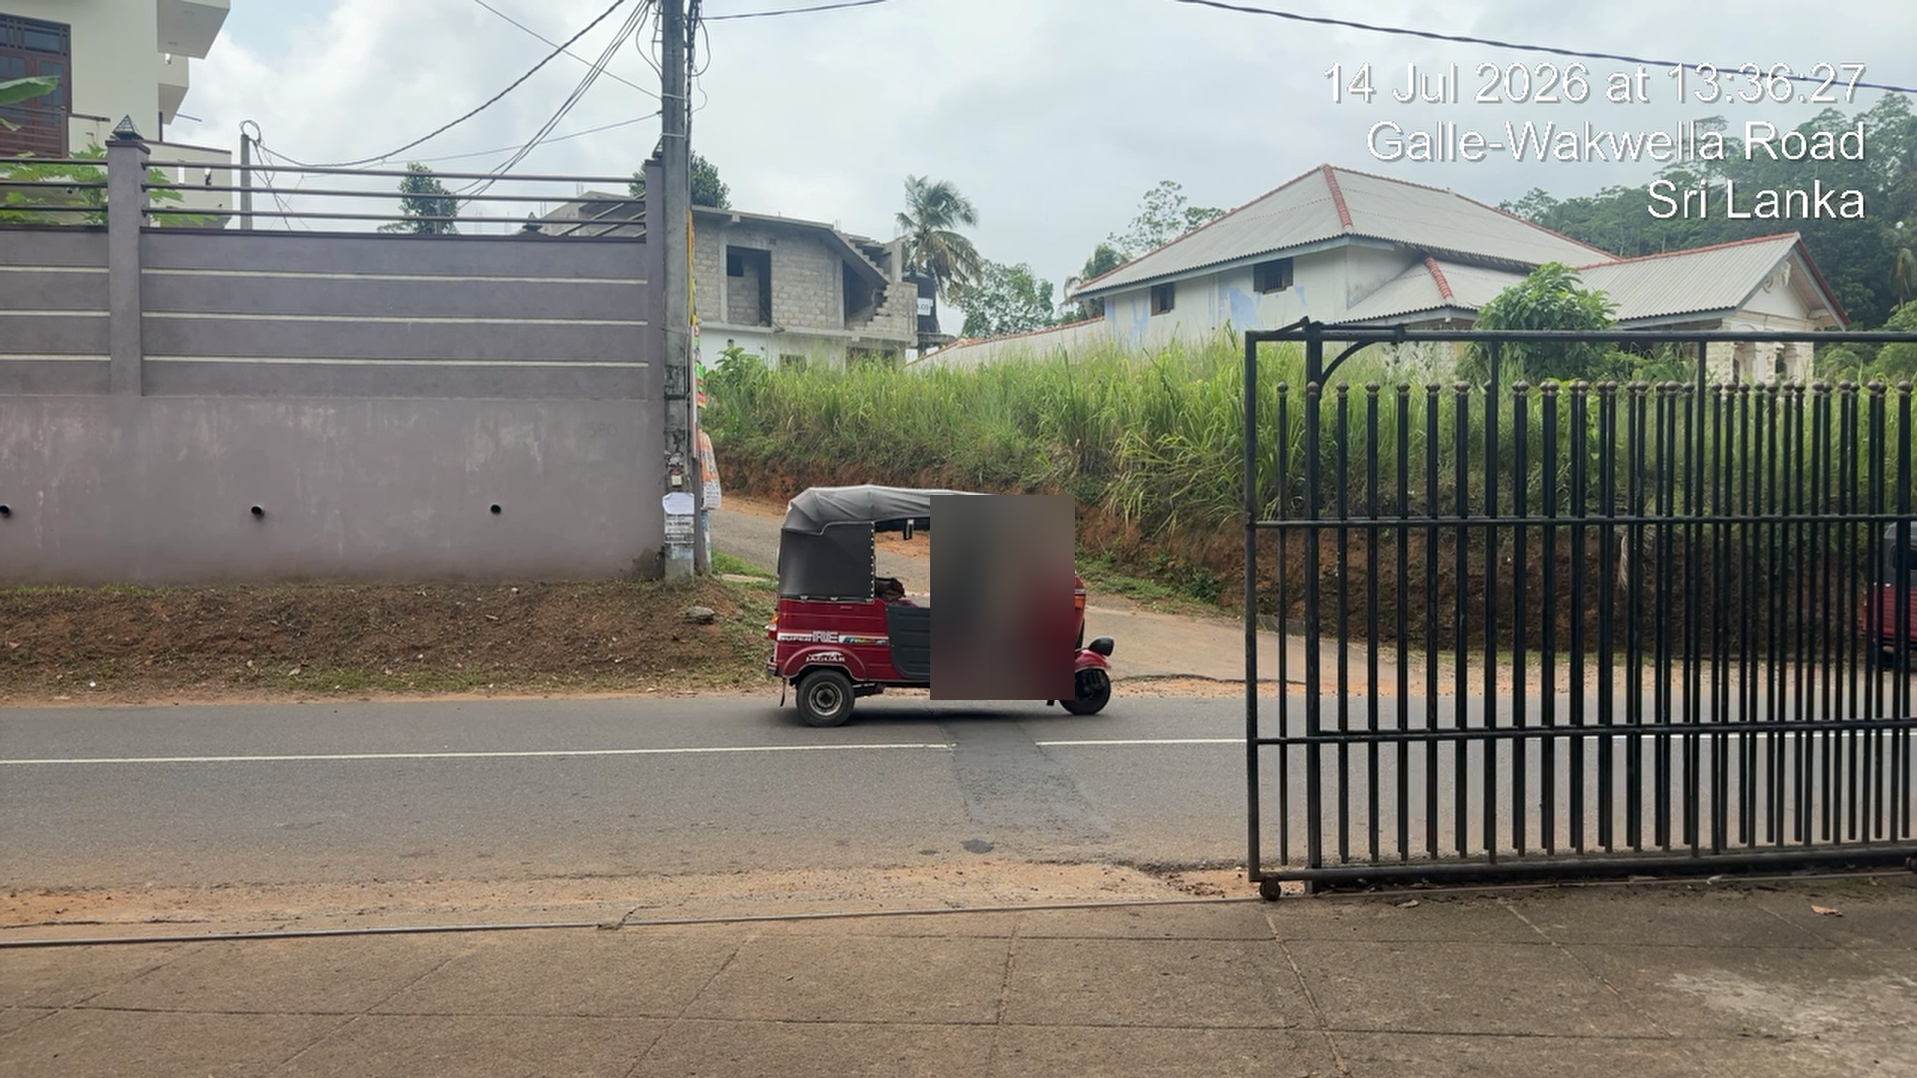
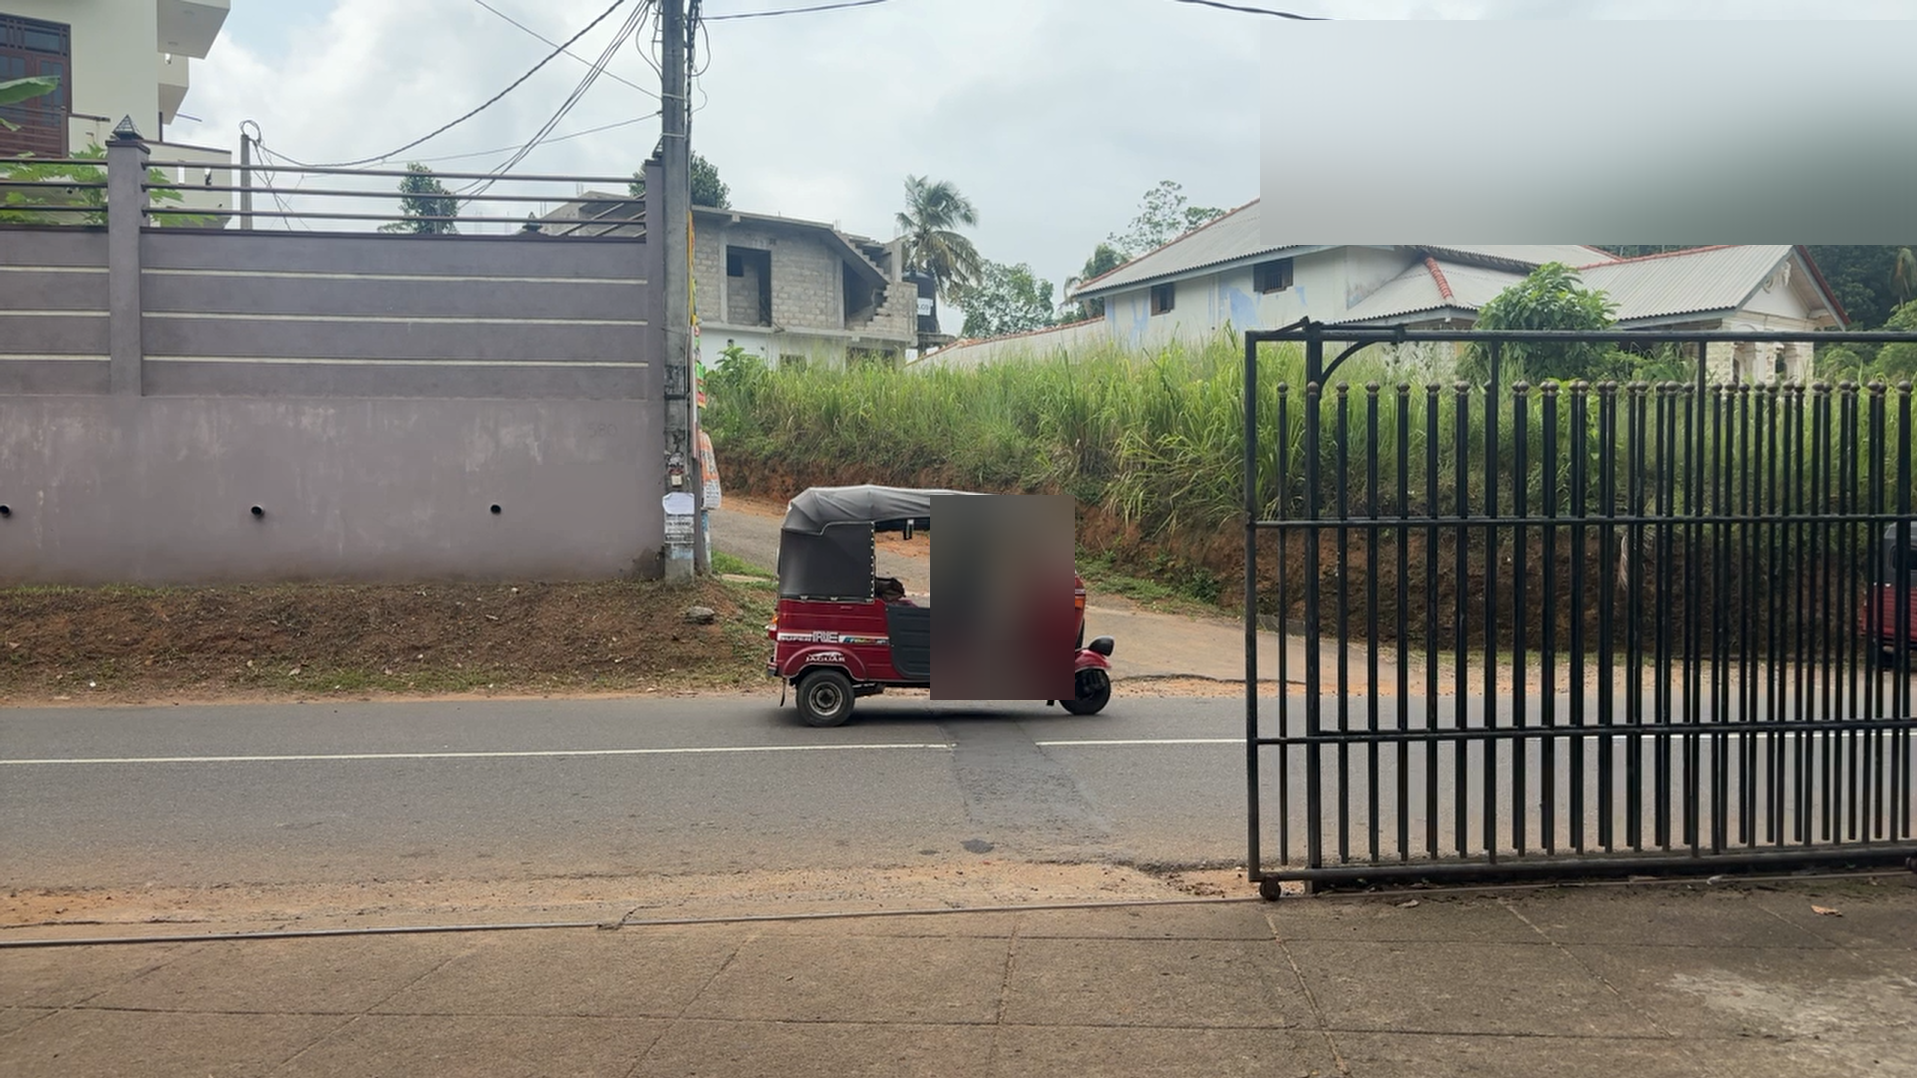
Second Figure 3 redaction pass; move discrepancy detail to docs
- tools/redact/blur_figure3_overlay.py: blurs the camera's burned-in
  date/time/road-name overlay and a house-number stencil on the boundary
  wall, in addition to the occupant blur already applied. The manuscript
  text already states the session date and road name, so the image no
  longer needs to repeat that detail in a persistent, geolocatable form.
- docs/MAIN_ROAD_DISCREPANCY_ANALYSIS.md: full per-discrepancy timing and
  five-minute-window clustering detail, moved out of the manuscript body
  per reviewer feedback that it read as a forensic audit rather than a
  method summary.
- docs/validation_multimodule_results.md: added the five-session time
  window table, likewise moved out of the manuscript's inline prose.

Changed region(s): [[0.6463, 0.0306, 1.0, 0.2449], [0.7079, 0.0, 0.7387, 0.0306]]

diff --git a/tools/redact/blur_figure3_overlay.py b/tools/redact/blur_figure3_overlay.py
@@ -1,0 +1,63 @@
+"""
+blur_figure3_overlay.py -- second redaction pass on the manuscript's Figure 3
+field-validation still (already occupant-blurred by blur_figure2.py).
+
+Reviewer/supervisor feedback: the frame has a burned-in camera overlay
+stamping the exact date, time, and full road name onto a photo that also
+shows a specific residential gate/wall, including a house-number stencil on
+the wall face. The manuscript's own prose already states the location (B130
+Galle-Wackwella Road) and date (14 July 2026) in Method validation, so the
+overlay text adds no information the reader doesn't already have from the
+text -- it only adds a persistent, googlable image tying an exact timestamp
+to an identifiable residential frontage. Both regions are blurred here as
+unnecessary location-sensitive detail.
+
+No unredacted source frame is retained (per the manuscript's own stated
+raw-footage deletion policy), so this operates on the already
+occupant-redacted image and blurs two additional regions:
+  1. the top-right date/time/location overlay text
+  2. the house-number stencil visible on the boundary wall
+
+Usage:
+    python blur_figure3_overlay.py <input_image> <output_image>
+"""
+
+import sys
+import cv2
+
+
+def main():
+    if len(sys.argv) != 3:
+        print("Usage: python blur_figure3_overlay.py <input_image> <output_image>")
+        sys.exit(1)
+
+    src_path, dst_path = sys.argv[1], sys.argv[2]
+    img = cv2.imread(src_path)
+    if img is None:
+        print(f"ERROR: could not read {src_path}")
+        sys.exit(1)
+
+    h, w = img.shape[:2]
+    print(f"Source image: {w}x{h}")
+
+    # Camera-burned date/time/road-name overlay, top-right corner.
+    overlay_box = (1260, 20, 1917, 245)
+    # House-number stencil on the boundary wall, left-center.
+    housenum_box = (535, 465, 635, 530)
+
+    for (x1, y1, x2, y2) in [overlay_box, housenum_box]:
+        x1, y1, x2, y2 = max(0, x1), max(0, y1), min(w, x2), min(h, y2)
+        if x2 <= x1 or y2 <= y1:
+            continue
+        region = img[y1:y2, x1:x2]
+        kx = max(41, (x2 - x1) // 2 * 2 + 1)
+        ky = max(41, (y2 - y1) // 2 * 2 + 1)
+        blurred = cv2.GaussianBlur(region, (kx, ky), 0)
+        img[y1:y2, x1:x2] = blurred
+
+    cv2.imwrite(dst_path, img, [cv2.IMWRITE_PNG_COMPRESSION, 3])
+    print(f"Wrote redacted image: {dst_path}")
+
+
+if __name__ == "__main__":
+    main()

diff --git a/docs/MAIN_ROAD_DISCREPANCY_ANALYSIS.md b/docs/MAIN_ROAD_DISCREPANCY_ANALYSIS.md
@@ -1,0 +1,70 @@
+# Main-Road Discrepancy Analysis
+
+This document gives the full per-discrepancy detail behind the manuscript's
+Method validation summary for the main-road session (14 July 2026), moved
+here to keep the manuscript body at a method-summary level of detail rather
+than a per-timestamp forensic audit.
+
+## Tolerance-sensitivity check
+
+Matching was performed at a two-second tolerance (Ground-truth extraction
+and matching, in the manuscript). Re-matching at other tolerances (1, 2, 3,
+5 seconds) to test sensitivity to that choice would require the full
+unmatched raw timestamp lists from both the application export and the
+video-derived record. These were not retained as a separate file for the
+main-road session, so they cannot be reconstructed from the published
+discrepancy list (Table 6) alone. This tolerance-sensitivity analysis is
+therefore not repeated; it is named as a limitation in the manuscript
+instead.
+
+## Are the three unmatched entries genuine false positives?
+
+What can be checked from Table 6 as published is the temporal gap between
+each unmatched entry and the nearest missed detection, to assess whether an
+unmatched entry could plausibly be the same physical vehicle as a nearby
+missed detection, simply mismatched at this tolerance.
+
+| Unmatched entry | Nearest missed detection | Gap | Same class? | Verdict |
+|---|---|---|---|---|
+| 13:54:19 | (nearest missed event) | 113s | -- | Too distant; genuine false positive |
+| 13:56:11 | (nearest missed event) | 225s | -- | Too distant; genuine false positive |
+| 13:49:57 | Truck missed at 13:50:06 | 9s | No (Bike vs. Truck) | Close in time, but different logged class argues against being the same vehicle |
+
+Two of the three are unambiguous genuine false positives. The third is close
+enough in time to warrant checking, but the class mismatch argues against
+it being the same vehicle even at a wider tolerance. The manuscript
+therefore does not smooth this into a uniform "all three are genuine false
+positives" claim, since the data does not uniformly support that for all
+three.
+
+## Are the ten discrepancies clustered in time?
+
+Binning all ten discrepancies (four missed, three misclassified, three
+unmatched) into consecutive five-minute windows across the 30-minute
+session:
+
+| Window | Discrepancies |
+|---|---|
+| 0--5 min | 1 |
+| 5--10 min | 0 |
+| 10--15 min | 2 |
+| 15--20 min | 3 |
+| 20--25 min | 4 |
+| 25--30 min | 0 |
+
+Every discrepancy falls between 13:36:20 and 13:56:11, and the per-bin
+count rises across the session instead of staying flat. This is not
+consistent with a prior characterization of this data as "isolated single
+events rather than in a cluster." It is closer to a mild concentration in
+the back half of the session, though ten events are too few to distinguish
+a genuine rising trend (for example, fatigue) from chance clustering with
+any confidence -- both readings remain plausible, and this data does not
+adjudicate between them.
+
+## Misclassification pattern
+
+All three misclassifications involved a smaller, less visually distinct
+class confused with a similarly sized but different one, consistent with
+the literature's general finding that classification error is driven
+primarily by difficulty recognizing a vehicle's length or form, not by
+missing it altogether [6].

diff --git a/docs/validation_multimodule_results.md b/docs/validation_multimodule_results.md
@@ -14,6 +14,18 @@ This extends the manuscript's existing single-module validation (Main Road, 231 
 
 All confidence intervals are Wilson 95%.
 
+### Session time windows
+
+| Module | Date | Time window |
+|---|---|---|
+| t-junction | 27 July 2026 | 16:51:09--16:58:07 |
+| institutional-idling | 27 July 2026 | 17:10:49--17:26:46 |
+| roundabout | 28 July 2026 | 10:38:48--10:48:47 |
+| bus-idling | 28 July 2026 | 11:07:48--11:37:53 |
+| pedestrian | 28 July 2026 | 11:39:29--11:52:39 |
+
+Precise site addresses and the number of surveyors involved in each of these five sessions were not recorded to the same level of detail as the 14 July main-road session; this is named as a limitation in the manuscript rather than reconstructed.
+
 **Missed detections (1 each, roundabout and t-junction):** a Tuk Tuk at 10:39:03 (roundabout) and a Car at 16:52:17 (t-junction) were visible in the video but never logged by the app.
 
 **Misclassification (1, institutional-idling):** a vehicle at 17:15:20 was logged by the app as "Van" but the video shows "Truck."
